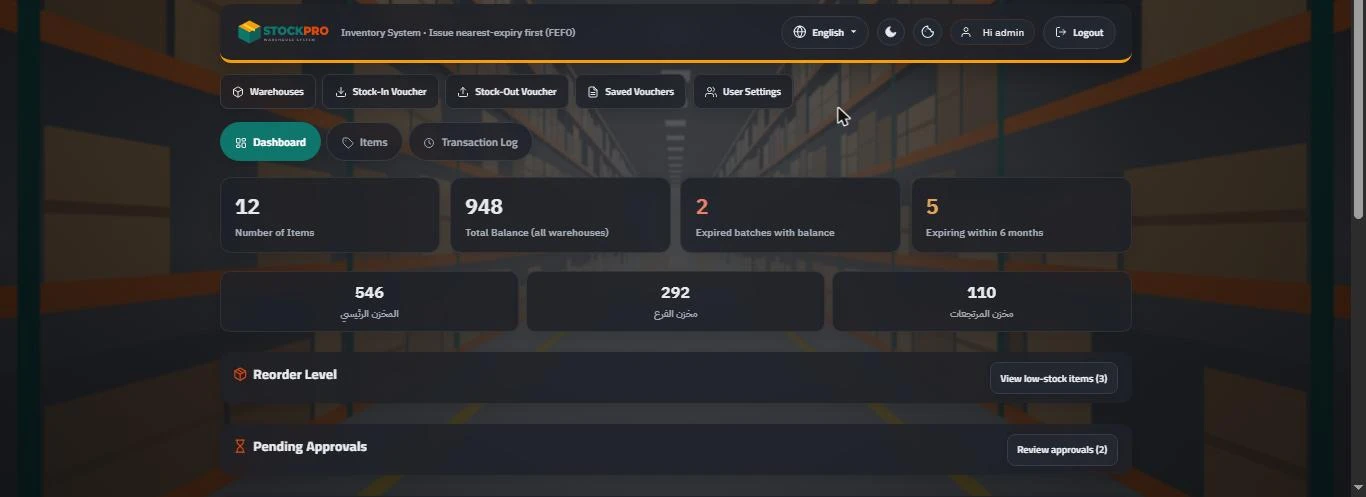
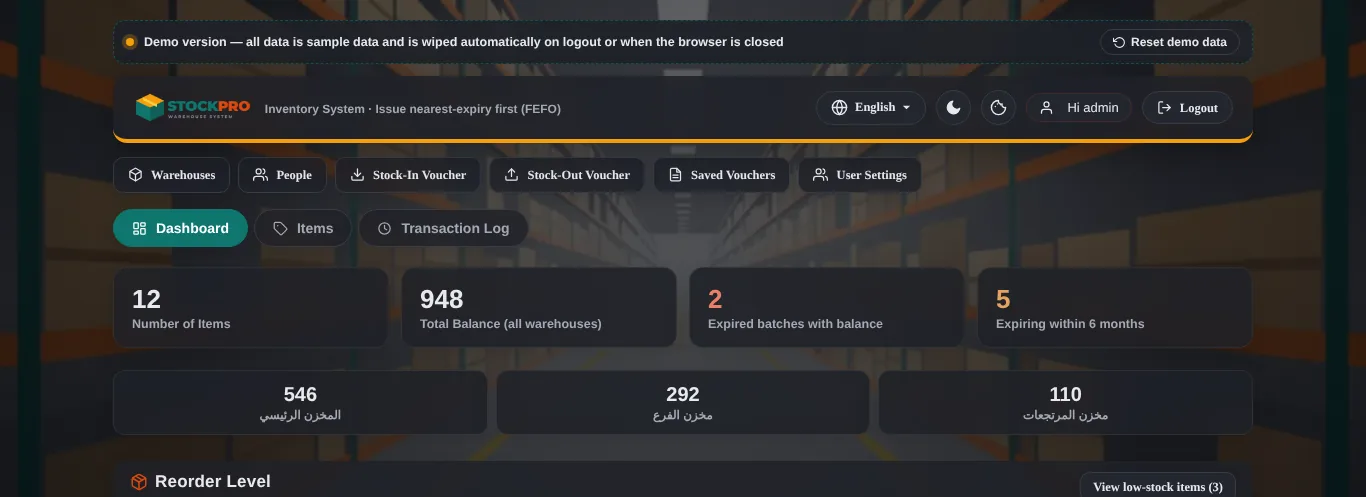
Landing page: add contacts, split-expiry lines, totals, creator/approver, responsive, idle logout; refresh all screenshots
New contacts gallery tab and screenshot, three new feature cards, FEFO split-expiry text, FAQ entries, mobile note screenshot, updated descriptions.

Claude-Session: https://claude.ai/code/session_018N4TR8LqXqE4DvGyRgXBsc

diff --git a/index.html b/index.html
@@ -168,12 +168,12 @@
   /* mobile */
   .mobile-sec{display:grid;grid-template-columns:1fr 1fr;gap:50px;align-items:center;}
   @media(max-width:900px){.mobile-sec{grid-template-columns:1fr;}}
-  .phones{display:flex;justify-content:center;gap:22px;}
-  .phone{width:230px;border-radius:38px;background:#0F172A;padding:10px;box-shadow:var(--shadow-lg);position:relative;}
+  .phones{display:flex;justify-content:center;gap:14px;}
+  .phone{width:min(190px,31%);border-radius:38px;background:#0F172A;padding:10px;box-shadow:var(--shadow-lg);position:relative;}
   .phone::before{content:"";position:absolute;top:18px;left:50%;transform:translateX(-50%);width:70px;height:18px;border-radius:12px;background:#0F172A;z-index:2;}
   .phone img{border-radius:29px;width:100%;}
   .phone:nth-child(2){margin-top:48px;}
-  @media(max-width:520px){.phone{width:46%;} .phone:nth-child(2){margin-top:30px;}}
+  @media(max-width:520px){.phones{gap:8px;} .phone{width:31%;padding:6px;border-radius:24px;} .phone:nth-child(2){margin-top:30px;}}
   .check-list{list-style:none;padding:0;margin:22px 0 0;display:grid;gap:12px;}
   .check-list li{display:flex;gap:12px;align-items:flex-start;}
   .check-list .ci{width:28px;height:28px;border-radius:8px;background:var(--teal-soft);color:var(--teal);display:grid;place-items:center;flex:none;margin-top:2px;}
@@ -375,8 +375,8 @@
       <div class="feat star rv"><div class="fi"><svg class="ico"><use href="#i-sort"/></svg></div><h3>صرف تلقائي بالأقرب انتهاءً (FEFO)</h3><p>بتكتب الصنف والكمية بس، والنظام يصرف من الأقرب انتهاءً للأبعد، ويستبعد المنتهي تلقائيًا.</p></div>
       <div class="feat rv"><div class="fi o"><svg class="ico"><use href="#i-alert"/></svg></div><h3>تنبيهات الصلاحية</h3><p>لوحة قيادة بتوريك المنتهي والقريب من الانتهاء، مرتبة حسب الأولوية ومعاها الرصيد في كل مخزن.</p></div>
       <div class="feat rv"><div class="fi t"><svg class="ico"><use href="#i-swap"/></svg></div><h3>مخازن متعددة ونقل بينها</h3><p>ضيف مخازن بلا حدود، واعرف رصيد كل مخزن لوحده، وانقل البضاعة بإذن نقل مسجّل.</p></div>
-      <div class="feat rv"><div class="fi t"><svg class="ico"><use href="#i-file"/></svg></div><h3>أذون إضافة وصرف ونقل</h3><p>أذون مرقّمة بأسماء الموردين والعملاء والمستلمين، تقدر ترجعلها وتعدّلها أو تلغيها في أي وقت.</p></div>
-      <div class="feat rv"><div class="fi am"><svg class="ico"><use href="#i-print"/></svg></div><h3>طباعة ومعاينة</h3><p>اطبع الإذن أو محتويات المخزن أو حركة الصنف أو تقرير النواقص بشكل رسمي ونضيف.</p></div>
+      <div class="feat rv"><div class="fi t"><svg class="ico"><use href="#i-file"/></svg></div><h3>أذون إضافة وصرف ونقل</h3><p>أذون مرقّمة بأسماء الموردين والعملاء والعناوين والمستلمين، وفي آخر كل جدول إجمالي الكمية. تقدر ترجعلها وتعدّلها أو تلغيها بأمان، ومين أنشأها ومين اعتمدها بيظهر على الإذن.</p></div>
+      <div class="feat rv"><div class="fi am"><svg class="ico"><use href="#i-print"/></svg></div><h3>طباعة ومعاينة</h3><p>اطبع الإذن أو محتويات المخزن أو حركة الصنف أو تقرير النواقص بشكل رسمي: خلفية بيضاء وخطوط سودا واضحة، وكل تاريخ صلاحية في سطر بكميته.</p></div>
       <div class="feat rv"><div class="fi o"><svg class="ico"><use href="#i-trend"/></svg></div><h3>حد الطلب وتقرير النواقص</h3><p>حدد حد أدنى لكل صنف، والنظام يطلّعلك قايمة بالأصناف اللي محتاجة تتطلب.</p></div>
       <div class="feat rv"><div class="fi t"><svg class="ico"><use href="#i-users"/></svg></div><h3>مستخدمين وصلاحيات</h3><p>حساب لكل موظف، وتحدد لكل واحد يقدر يشوف ويضيف ويعدّل ويحذف ويطبع إيه بالظبط.</p></div>
       <div class="feat rv"><div class="fi am"><svg class="ico"><use href="#i-hourglass"/></svg></div><h3>دورة موافقات</h3><p>أذونات أمين المخزن ممكن تستنى موافقة المدير قبل ما تأثر على الرصيد، ويقدر يراجعها ويعدّلها أو يرفضها.</p></div>
@@ -384,6 +384,9 @@
       <div class="feat rv"><div class="fi o"><svg class="ico"><use href="#i-palette"/></svg></div><h3>بهوية شركتك</h3><p>اسم شركتك واللوجو والأيقونة وصورة الخلفية، ولون كل زرار لوحده — من لوحة التحكم.</p></div>
       <div class="feat rv"><div class="fi t"><svg class="ico"><use href="#i-moon"/></svg></div><h3>عربي / إنجليزي · فاتح / داكن</h3><p>كل مستخدم يختار اللغة والمظهر اللي يريّحه، والاختيار بيتحفظ على جهازه.</p></div>
       <div class="feat rv"><div class="fi am"><svg class="ico"><use href="#i-sync"/></svg></div><h3>سحابي ومتزامن</h3><p>كل الأجهزة شايفة نفس البيانات في نفس اللحظة، من المكتب أو المخزن أو من برّه.</p></div>
+      <div class="feat rv"><div class="fi t"><svg class="ico"><use href="#i-truck"/></svg></div><h3>دفتر الأشخاص: موردين وعملاء</h3><p>سجّل الاسم والتليفون والعنوان مرة واحدة، وبعدها بيتعبّوا لوحدهم في الإذن. وكل إضافة أو تعديل بيتسجّل في سجل الحركات.</p></div>
+      <div class="feat rv"><div class="fi am"><svg class="ico"><use href="#i-sparkle"/></svg></div><h3>اكتب وهو يختار</h3><p>في الصنف والمورد والعميل اكتب جزء من الاسم والقايمة بتفلتر على طول، وكمان سهم لفتح كل الاختيارات.</p></div>
+      <div class="feat rv"><div class="fi o"><svg class="ico"><use href="#i-phone"/></svg></div><h3>متجاوب مع كل الشاشات</h3><p>الجداول بتتحرك أفقيًا والحقول بتترتب في عمود واحد على الموبايل، فتشتغل بنفس الراحة على التليفون.</p></div>
     </div>
   </div>
 </section>
@@ -394,12 +397,12 @@
     <div class="rv">
       <span class="eyebrow">الصرف الذكي</span>
       <h2>أمين المخزن مش محتاج يدوّر على تاريخ الصلاحية</h2>
-      <p>لما تعمل إذن صرف، بتختار الصنف والكمية والمخزن بس. النظام بيستبعد أي باتش منتهي الصلاحية، ويرتّب الباقي حسب تاريخ الانتهاء، ويسحب من الأقرب الأول. ولو الكمية أكبر من الباتش بيكمّل من اللي بعده تلقائيًا.</p>
+      <p>لما تعمل إذن صرف، بتختار الصنف والكمية والمخزن بس. النظام بيستبعد أي باتش منتهي الصلاحية، ويرتّب الباقي حسب تاريخ الانتهاء، ويسحب من الأقرب الأول. ولو الكمية أكبر من الباتش بيكمّل من اللي بعده تلقائيًا، وفي الإذن كل تاريخ صلاحية بيظهر في سطر لوحده بكميته.</p>
       <ul class="check-list">
         <li><span class="ci"><svg class="ico"><use href="#i-check"/></svg></span><div><b>تقليل الهالك</b><span>البضاعة القديمة بتخرج الأول، فبتقلّ الكميات اللي بتنتهي في المخزن.</span></div></li>
         <li><span class="ci"><svg class="ico"><use href="#i-check"/></svg></span><div><b>المنتهي عمره ما يتصرف</b><span>الباتشات المنتهية بتتستبعد من الصرف تلقائيًا، وتقدر تنقلها لمخزن المرتجعات بإذن نقل.</span></div></li>
         <li><span class="ci"><svg class="ico"><use href="#i-check"/></svg></span><div><b>من غير أخطاء بشرية</b><span>مفيش اعتماد على ذاكرة الموظف أو قراءة التاريخ من على الكرتونة.</span></div></li>
-        <li><span class="ci"><svg class="ico"><use href="#i-check"/></svg></span><div><b>شفافية كاملة</b><span>الإذن المطبوع بيوضّح تاريخ صلاحية الكمية اللي خرجت.</span></div></li>
+        <li><span class="ci"><svg class="ico"><use href="#i-check"/></svg></span><div><b>شفافية كاملة</b><span>الإذن المطبوع بيوضّح كل تاريخ صلاحية والكمية اللي خرجت منه في سطر مستقل، وفي آخر الجدول إجمالي الكمية.</span></div></li>
       </ul>
     </div>
     <div class="batches rv" id="fefoDemo">
@@ -409,6 +412,7 @@
       <div class="b-row first"><span class="n">2</span><div><div class="exp">صلاحية 05/2027 <small>متاح 140 كرتونة</small></div><div class="bar"><b data-w="14%"></b></div></div><span class="take">سحب 20</span></div>
       <div class="b-row skip"><span class="n">3</span><div><div class="exp">صلاحية 02/2028 <small>متاح 90 كرتونة</small></div><div class="bar"><b data-w="0%"></b></div></div><span class="take" style="color:var(--muted)">لم يُمس</span></div>
       <div class="legend"><span><i style="background:var(--teal)"></i>الكمية المسحوبة من الباتش</span><span><i style="background:#E2E8F0"></i>الباقي في المخزن</span></div>
+      <div style="margin-top:14px;padding:12px 14px;border:1px dashed var(--line);border-radius:12px;font-size:13.5px;color:var(--ink-2);background:#F8FAFC"><b style="color:var(--ink)">في الإذن المطبوع:</b> سطر <b>40</b> بصلاحية 11/2026، وسطر <b>20</b> بصلاحية 05/2027 — الإجمالي <b>60</b>.</div>
     </div>
   </div>
 </section>
@@ -422,7 +426,7 @@
       <p>الموظف بيتعلّم النظام في دقايق، لأن كل شاشة بتعمل حاجة واحدة وبوضوح.</p>
     </div>
     <div class="steps">
-      <div class="step rv"><h3>سجّل أصنافك</h3><p>اسم الصنف ووحدتي القياس (زي كرتونة وعبوة) وصورته وحد الطلب. وممكن نسجّلهالك إحنا من ملفاتك الحالية.</p></div>
+      <div class="step rv"><h3>سجّل أصنافك</h3><p>اسم الصنف ووحدة القياس أو وحدتين (زي كرتونة وعبوة) وصورته وحد الطلب. وممكن نسجّلهالك إحنا من ملفاتك الحالية.</p></div>
       <div class="step rv"><h3>استلم بإذن إضافة</h3><p>كل استلام بإذن فيه المورد والكمية والمخزن وتاريخ الصلاحية، فالرصيد يزيد فورًا.</p></div>
       <div class="step rv"><h3>اصرف بإذن صرف</h3><p>اختار الصنف والكمية والعميل، والنظام يصرف من الباتش الأقرب انتهاءً ويطبع الإذن.</p></div>
       <div class="step rv"><h3>تابع وخد قرارك</h3><p>تنبيهات الصلاحية والنواقص والسجل الكامل قدامك على لوحة القيادة في أي وقت.</p></div>
@@ -453,14 +457,15 @@
       <h2 style="font-size:clamp(26px,3.2vw,36px);font-weight:900">المخزن في جيبك</h2>
       <p style="color:var(--ink-2)">النظام بيشتغل من المتصفح على الكمبيوتر والتابلت والموبايل، ومش محتاج تنزّل أي تطبيق. أمين المخزن يسجّل الإذن من جوه المخزن، والمدير يتابع ويوافق من مكتبه أو من بيته.</p>
       <ul class="check-list">
-        <li><span class="ci"><svg class="ico"><use href="#i-check"/></svg></span><div><b>تصميم متجاوب</b><span>الشاشات بتترتب لوحدها حسب حجم الجهاز.</span></div></li>
+        <li><span class="ci"><svg class="ico"><use href="#i-check"/></svg></span><div><b>تصميم متجاوب</b><span>الجداول بتتحرك أفقيًا والحقول بتترتب في عمود واحد، فالإذن يتسجّل من الموبايل بسهولة.</span></div></li>
         <li><span class="ci"><svg class="ico"><use href="#i-check"/></svg></span><div><b>بيانات لحظية</b><span>أي إذن بيتسجّل بيظهر على كل الأجهزة فورًا.</span></div></li>
         <li><span class="ci"><svg class="ico"><use href="#i-check"/></svg></span><div><b>اختصار على الشاشة الرئيسية</b><span>تقدر تضيفه على شاشة الموبايل ويفتح زي أي تطبيق.</span></div></li>
       </ul>
     </div>
     <div class="phones rv">
-      <div class="phone"><img src="img-mobile_dash.webp" alt="لوحة القيادة على الموبايل" width="585" height="1199" loading="lazy"></div>
-      <div class="phone"><img src="img-mobile_items.webp" alt="الأصناف على الموبايل" width="585" height="1267" loading="lazy"></div>
+      <div class="phone"><img src="img-mobile_dash.webp" alt="لوحة القيادة على الموبايل" width="585" height="1200" loading="lazy"></div>
+      <div class="phone"><img src="img-mobile_items.webp" alt="الأصناف على الموبايل" width="585" height="1200" loading="lazy"></div>
+      <div class="phone"><img src="img-mobile_note.webp" alt="إذن صرف على الموبايل" width="585" height="1200" loading="lazy"></div>
     </div>
   </div>
 </section>
@@ -504,7 +509,7 @@
     <div class="trust" style="margin-top:56px">
       <div class="tcard rv"><div class="fi t"><svg class="ico"><use href="#i-cloud"/></svg></div><h3>قاعدة بيانات سحابية</h3><p>بياناتك مش على جهاز واحد ممكن يبوظ أو يتسرق.</p></div>
       <div class="tcard rv"><div class="fi o"><svg class="ico"><use href="#i-lock"/></svg></div><h3>اتصال مؤمّن</h3><p>الاتصال مشفّر (HTTPS)، وقاعدة البيانات محمية بقواعد أمان.</p></div>
-      <div class="tcard rv"><div class="fi am"><svg class="ico"><use href="#i-shield"/></svg></div><h3>حساب لكل موظف</h3><p>كل واحد بحسابه وصلاحياته، وكل حركة متسجّلة باسمه.</p></div>
+      <div class="tcard rv"><div class="fi am"><svg class="ico"><use href="#i-shield"/></svg></div><h3>حساب لكل موظف</h3><p>كل واحد بحسابه وصلاحياته، وكل حركة متسجّلة باسمه، والحساب بيقفل لوحده بعد 15 دقيقة من غير نشاط.</p></div>
       <div class="tcard rv"><div class="fi t"><svg class="ico"><use href="#i-sync"/></svg></div><h3>تحديثات تلقائية</h3><p>أي تحسين أو ميزة جديدة بتوصل لكل الأجهزة من غير ما تعمل حاجة.</p></div>
     </div>
   </div>
@@ -542,6 +547,9 @@
       <details class="rv"><summary>عندي أصناف مالهاش تاريخ صلاحية، ينفع؟<span class="pm"><svg class="ico" style="width:14px;height:14px"><use href="#i-plus"/></svg></span></summary><p>أيوه. تاريخ الصلاحية اختياري في إذن الإضافة، والأصناف اللي من غير تاريخ بتتعامل عادي في الأرصدة والصرف والنقل.</p></details>
       <details class="rv"><summary>أقدر أمنع موظف من الحذف أو التعديل؟<span class="pm"><svg class="ico" style="width:14px;height:14px"><use href="#i-plus"/></svg></span></summary><p>أيوه. لكل مستخدم بتحدد صلاحيات العرض والإضافة والتعديل والحذف والطباعة لكل قسم لوحده، وممكن تخلي أذوناته تستنى موافقتك قبل ما تتنفّذ.</p></details>
       <details class="rv"><summary>ينفع يبقى باسم شركتي ولوجوها؟<span class="pm"><svg class="ico" style="width:14px;height:14px"><use href="#i-plus"/></svg></span></summary><p>أيوه، النسخة بتتسلّم بهويتك كاملة، وتقدر تغيّر اللوجو والخلفية والألوان بعدين بنفسك من لوحة التحكم.</p></details>
+      <details class="rv"><summary>أقدر أسجّل الموردين والعملاء مرة واحدة؟<span class="pm"><svg class="ico" style="width:14px;height:14px"><use href="#i-plus"/></svg></span></summary><p>أيوه. من زرار «الأشخاص» بتسجّل الاسم والتليفون والعنوان ونوعه (مورد أو عميل)، وبعدها بتختاره في الإذن وبياناته بتتعبّى لوحدها. وفي مسح البيانات تقدر تحتفظ بالأشخاص.</p></details>
+      <details class="rv"><summary>لو الكمية اتصرفت من أكتر من تاريخ صلاحية؟<span class="pm"><svg class="ico" style="width:14px;height:14px"><use href="#i-plus"/></svg></span></summary><p>النظام بيصرف من الأقرب انتهاءً ويكمّل من اللي بعده، والإذن بيعرض كل تاريخ صلاحية في سطر لوحده بكميته، وتحت الجدول إجمالي الكمية.</p></details>
+      <details class="rv"><summary>ينفع أعدّل إذن محفوظ؟<span class="pm"><svg class="ico" style="width:14px;height:14px"><use href="#i-plus"/></svg></span></summary><p>أيوه. بتفتح الإذن من «الأذون المحفوظة» وتعدّله، والنظام بيرجّع أثر القديم ويسجّل الجديد بأمان. تاريخ الإذن الأصلي بيفضل زي ما هو، واسم اللي أنشأه واللي اعتمده بيظهر في المعاينة والطباعة.</p></details>
       <details class="rv"><summary>ينفع أطبع الأذون والتقارير؟<span class="pm"><svg class="ico" style="width:14px;height:14px"><use href="#i-plus"/></svg></span></summary><p>أيوه. أذون الإضافة والصرف والنقل، ومحتويات المخزن، وحركة كل صنف، وتقرير النواقص — كلها ليها معاينة قبل الطباعة.</p></details>
       <details class="rv"><summary>البيانات اللي في النسخة التجريبية حقيقية؟<span class="pm"><svg class="ico" style="width:14px;height:14px"><use href="#i-plus"/></svg></span></summary><p>لا، كلها بيانات وهمية للعرض. جرّب براحتك: أضف وأصرف وعدّل زي ما تحب، وكل التعديلات بتتمسح تلقائيًا أول ما تسجّل خروج أو تقفل المتصفح، وكل مرة تفتح النسخة التجريبية بتبدأ من جديد.</p></details>
     </div>
@@ -583,9 +591,10 @@ const SCREENS = [
   {id:'dashboard', icon:'i-grid', tab:'لوحة القيادة', title:'لوحة القيادة', desc:'أول ما تدخل تعرف حالة المخزن كله في نظرة.', pts:['عدد الأصناف وإجمالي الرصيد','رصيد كل مخزن لوحده','تنبيهات الصلاحية مرتبة بالأولوية']},
   {id:'items', icon:'i-tag', tab:'الأصناف', title:'الأصناف بالصور', desc:'كل صنف بصورته ورصيده الإجمالي وحالة باتشاته بالألوان.', pts:['بحث سريع بالاسم','ترتيب يدوي بالسحب والإفلات','لون لكل باتش حسب صلاحيته']},
   {id:'item_detail', icon:'i-box', tab:'تفاصيل الصنف', title:'تفاصيل الصنف والباتشات', desc:'كل تاريخ صلاحية بكميته في كل مخزن وحالته.', pts:['رصيد كل باتش في كل مخزن','حالة الصلاحية بوضوح','حركة الصنف بالكامل بضغطة']},
-  {id:'bulk_out', icon:'i-upload', tab:'إذن الصرف', title:'إذن صرف بالصرف الذكي', desc:'اختار الأصناف والكميات، والنظام يحدد تاريخ الصلاحية اللي هيتصرف.', pts:['أكتر من صنف في إذن واحد','صرف بالأقرب انتهاءً مع استبعاد المنتهي','معاينة وطباعة قبل الحفظ']},
-  {id:'print_preview', icon:'i-print', tab:'طباعة الإذن', title:'إذن مطبوع بشكل رسمي', desc:'رقم الإذن والتاريخ والعميل والأصناف وتاريخ صلاحية كل كمية.', pts:['معاينة قبل الطباعة','مناسب للتوقيع والأرشفة','نفس الشكل لكل أنواع الأذون']},
-  {id:'approvals', icon:'i-hourglass', tab:'الموافقات', title:'أذون بانتظار الموافقة', desc:'أذون أمين المخزن بتستنى المدير يراجعها قبل ما تأثر على الرصيد.', pts:['مراجعة وتعديل قبل الاعتماد','رفض الإذن من غير ما يأثر على الرصيد','مين طلب وإمتى']},
+  {id:'bulk_out', icon:'i-upload', tab:'إذن الصرف', title:'إذن صرف بالصرف الذكي', desc:'اختار العميل والأصناف والكميات، والنظام يحدد تاريخ الصلاحية اللي هيتصرف.', pts:['العميل والعنوان واسم المستلم منفصلين','كل تاريخ صلاحية في سطر بكميته','إجمالي الكمية في آخر الجدول']},
+  {id:'print_preview', icon:'i-print', tab:'طباعة الإذن', title:'إذن مطبوع بشكل رسمي', desc:'التاريخ والعميل والعنوان ومين أنشأ الإذن وتاريخ صلاحية كل كمية.', pts:['خلفية بيضاء وخطوط سودا واضحة','اسم المنشئ والمعتمد على الإذن','نفس الشكل لكل أنواع الأذون']},
+  {id:'approvals', icon:'i-hourglass', tab:'الموافقات', title:'أذون بانتظار الموافقة', desc:'أذون أمين المخزن بتستنى المدير يراجعها قبل ما تأثر على الرصيد.', pts:['مراجعة وتعديل قبل الاعتماد','رفض الإذن من غير ما يأثر على الرصيد','مين طلب وإمتى وتاريخ الإذن الأصلي بيفضل']},
+  {id:'contacts', icon:'i-truck', tab:'الأشخاص', title:'دفتر الموردين والعملاء', desc:'سجّل الاسم والتليفون والعنوان مرة واحدة واستخدمه في كل إذن.', pts:['مورد أو عميل بتليفون وعنوان','بيتعبّى تلقائيًا في الإذن','كل إضافة وتعديل في سجل الحركات']},
   {id:'warehouses', icon:'i-swap', tab:'المخازن', title:'إدارة المخازن', desc:'ضيف مخازن وسمّيها، واعرض محتويات كل مخزن أو انقل بينهم.', pts:['مخازن بلا حدود','محتويات كل مخزن مع الطباعة','إذن نقل بين المخازن']},
   {id:'log', icon:'i-clock', tab:'سجل الحركات', title:'سجل كل الحركات', desc:'كل عملية في النظام متسجّلة بالوقت والنوع والكمية والمستخدم.', pts:['فلترة حسب نوع الحركة','بحث بالصنف أو المكان','مين عمل إيه وإمتى']},
   {id:'users', icon:'i-users', tab:'المستخدمين', title:'حسابات الموظفين', desc:'ضيف موظفين وغيّر كلمات المرور واحذف الحسابات من مكان واحد.', pts:['أدمن ومستخدم عادي','رمز استرجاع لحساب المدير','إدارة البيانات المسجّلة']},
